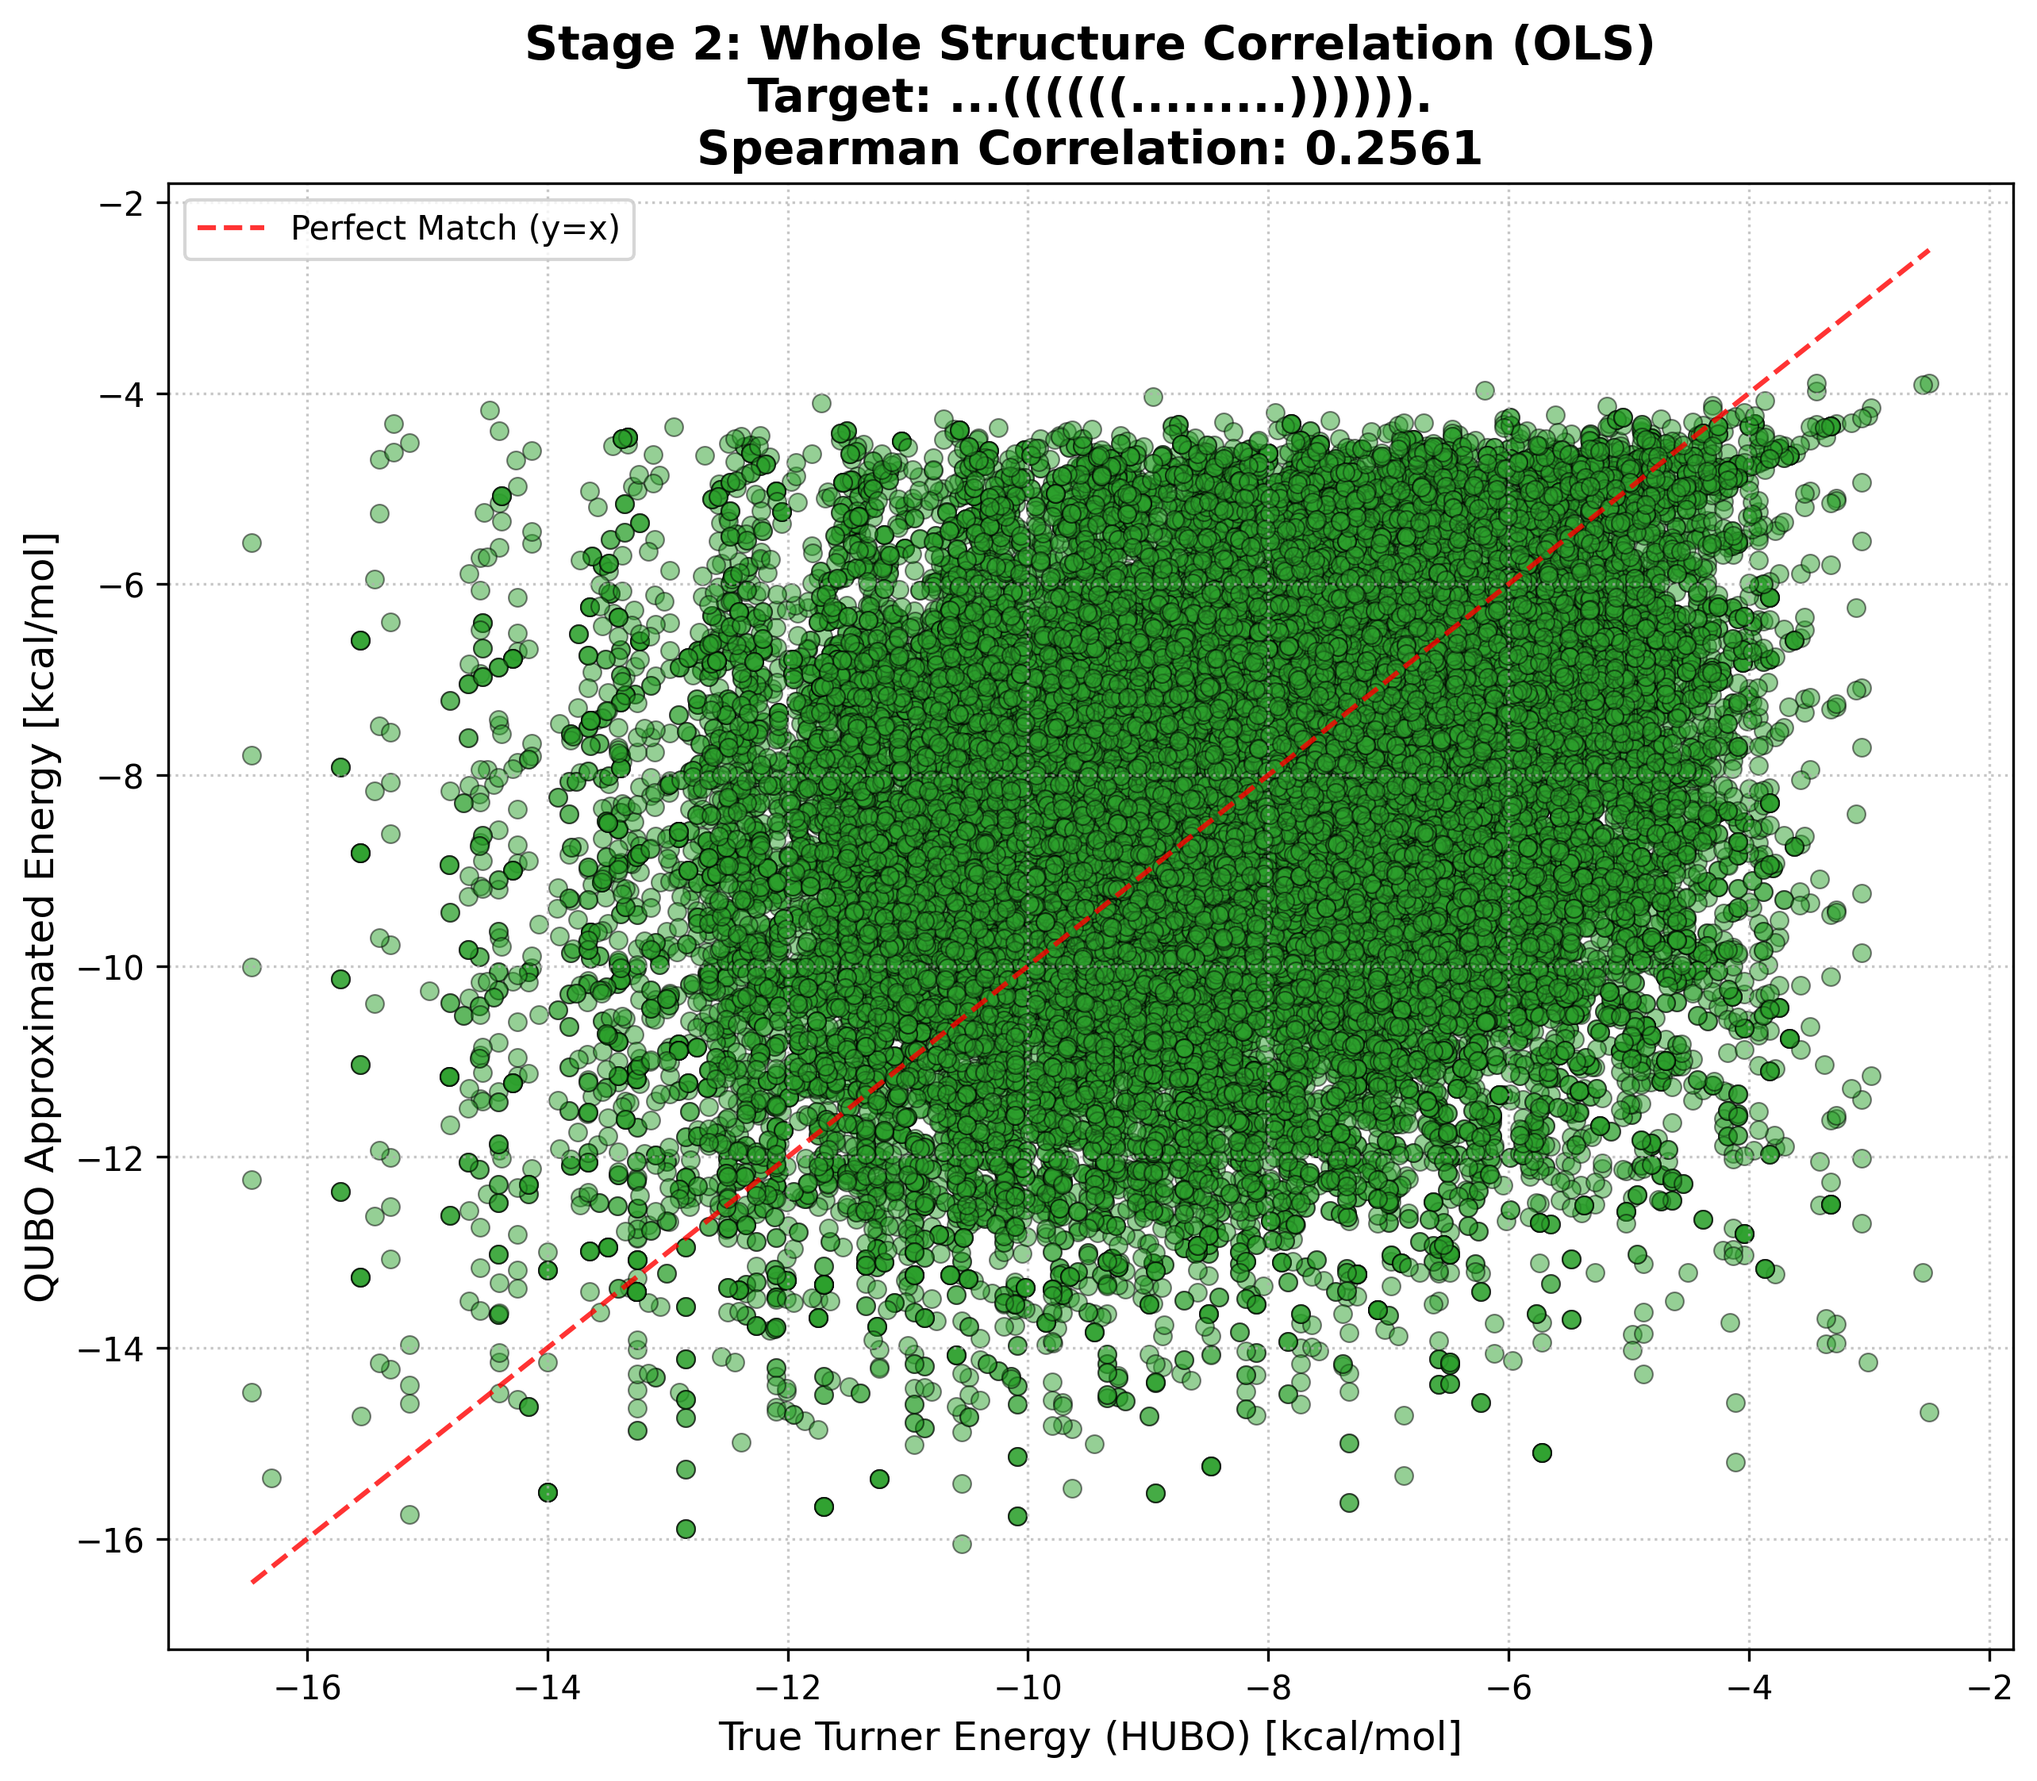
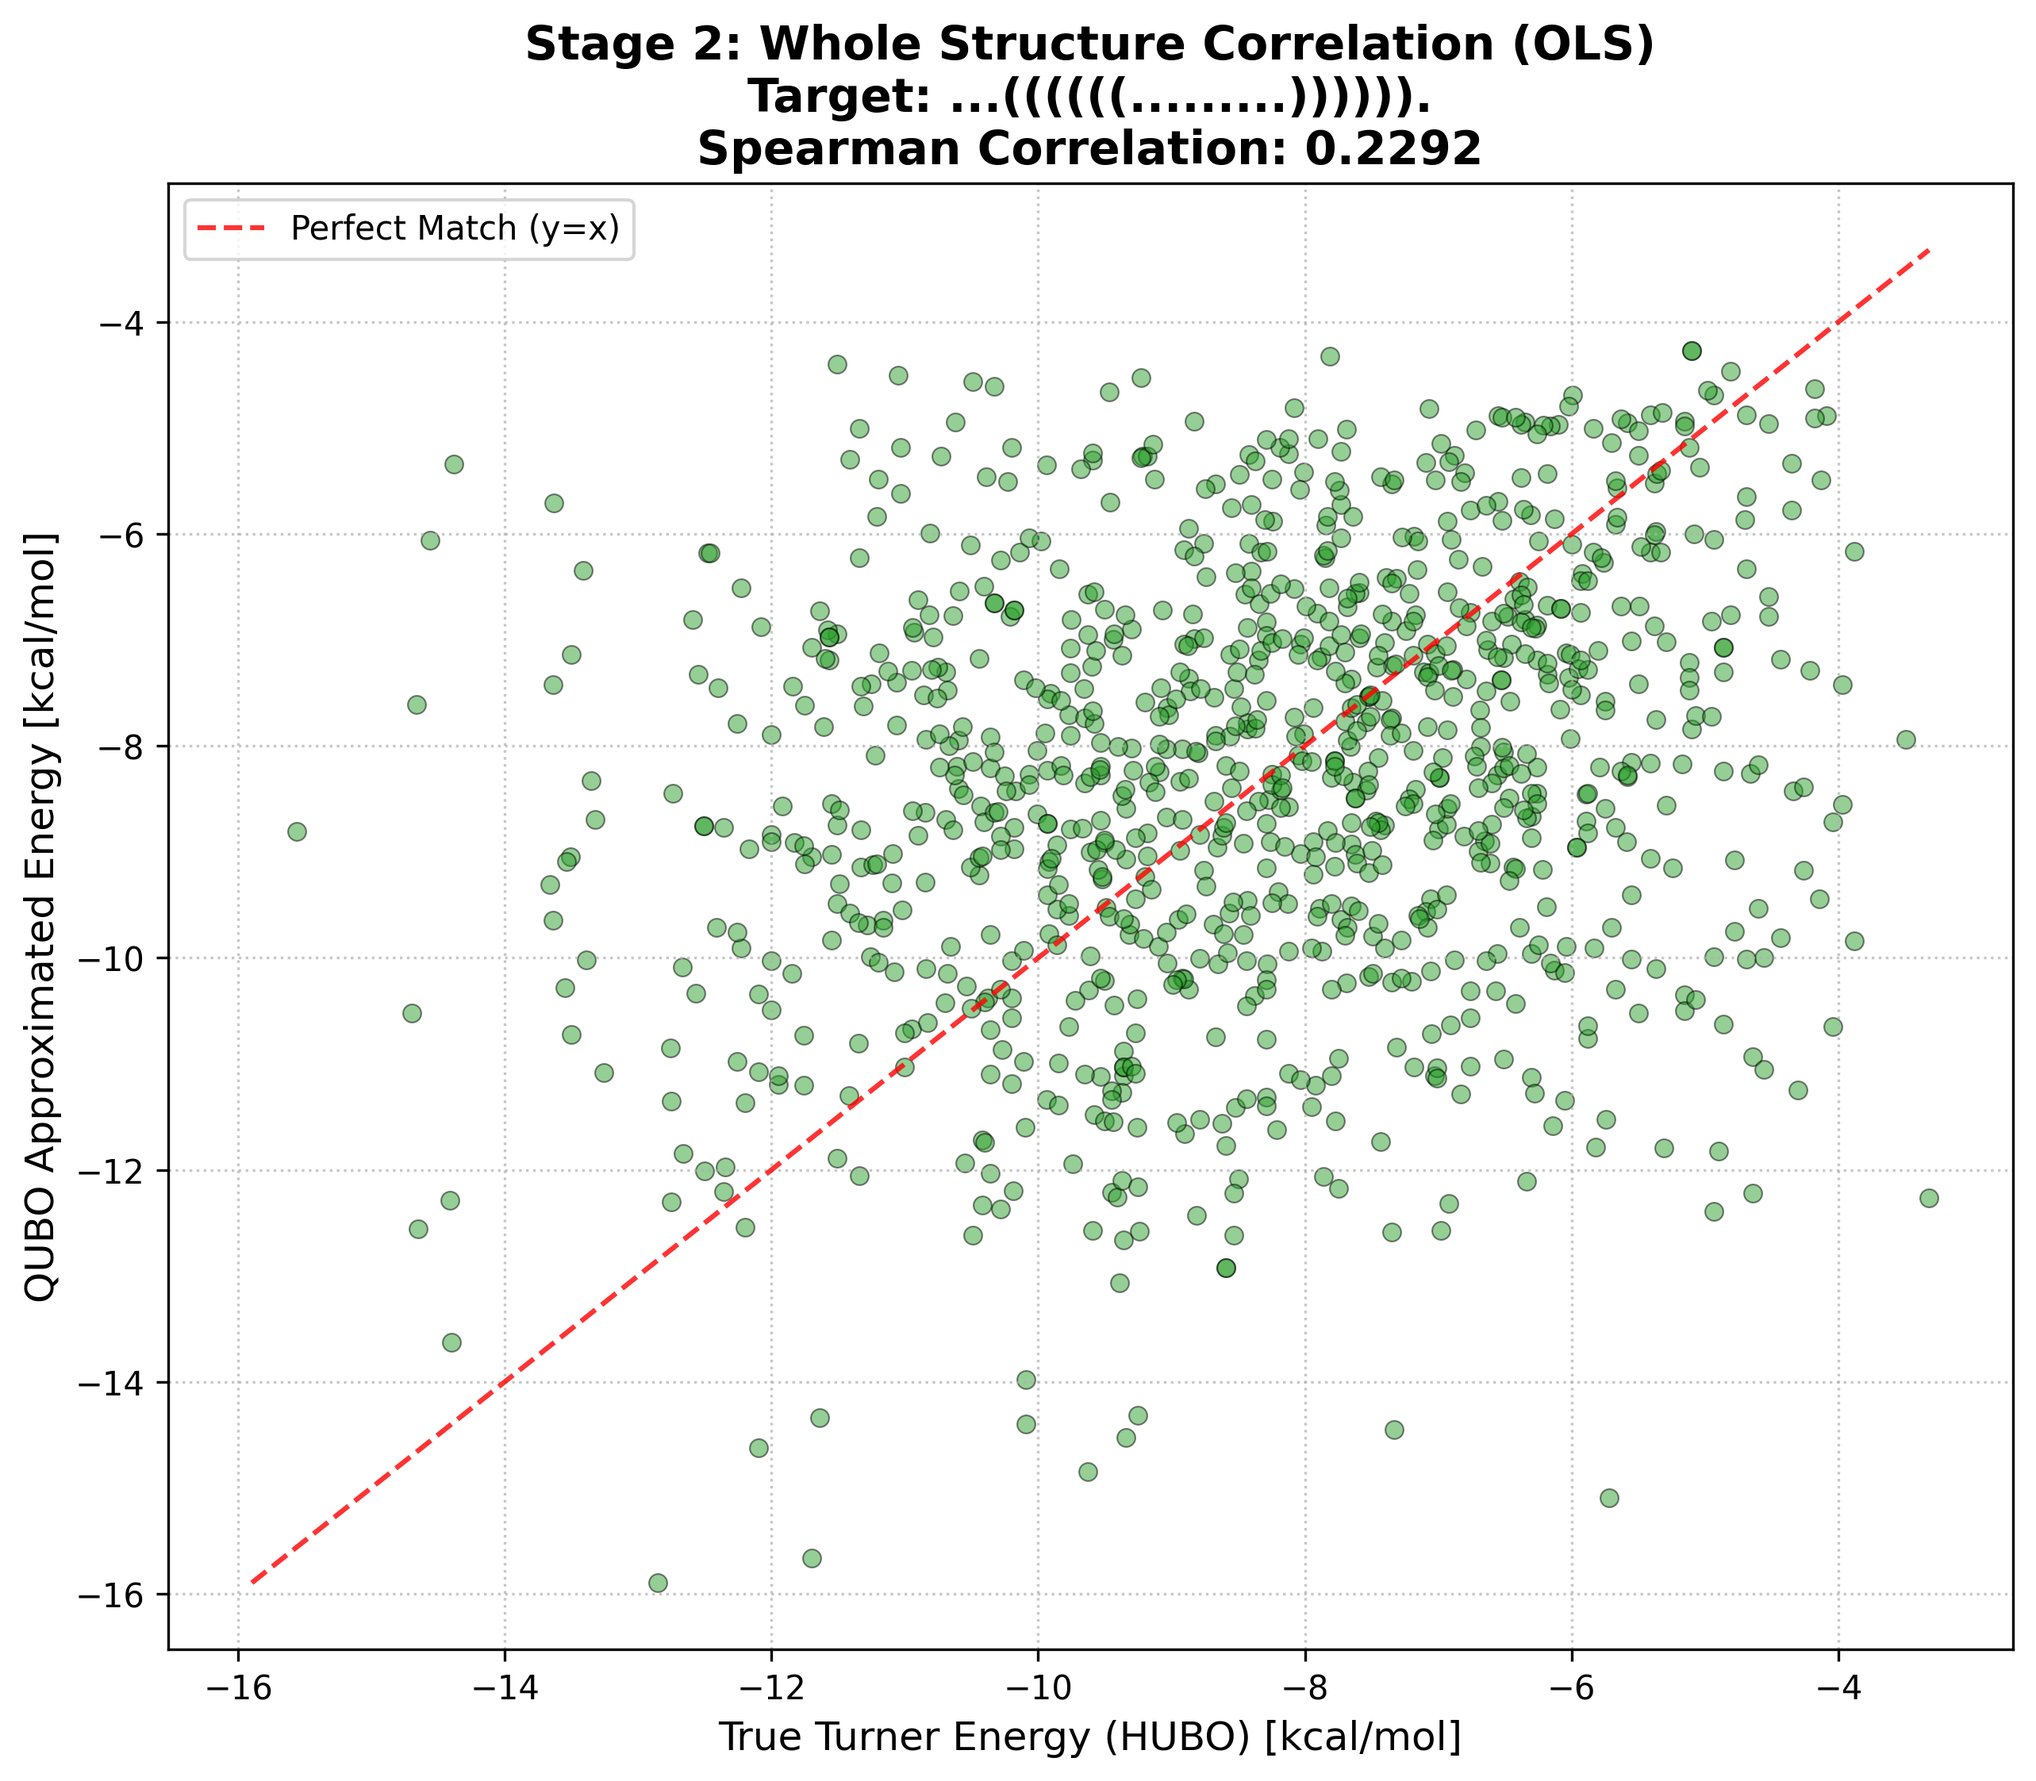
Checking the spearman correlation values for different objective function

diff --git a/phase3_coef_fitter.py b/phase3_coef_fitter.py
@@ -227,3 +227,197 @@ if __name__ == "__main__":
         
         # 2. Pass those weights into the diagnostic function to see the error margins and plot
         evaluate_qubo_fit(coefficients, method=method)
+
+
+# def calculate_qubo_coeffs(method="ols"):
+#     """
+#     Solves for the 22 QUBO coefficients using different objective functions.
+#     Available methods: 'ols', 'l1', 'minimax', 'rank', 'huber', 'wls', 'margin_rank'
+#     """
+#     num_samples = 36
+#     num_coeffs = 22
+
+#     Phi = np.zeros((num_samples,num_coeffs))
+#     E_true = np.zeros(num_samples)
+
+#     combinations = list(product(ALLOWED_PAIRS,ALLOWED_PAIRS))
+
+#     for row_i , (pair1,pair2) in enumerate(combinations):
+#         E_true[row_i] = get_turner_energy(pair1,pair2)
+#         q = build_qvector(pair1,pair2)
+
+#         col_i =0
+#         Phi[row_i,col_i] = 1 # c0 bias term always 1
+#         col_i +=1
+
+#         # c_a : linear terms
+#         for a in range(6):
+#             Phi[row_i,col_i] = q[a]
+#             col_i +=1
+        
+#         # c_ab : quadratic cross terms
+#         for a in range(6):
+#             for b in range(a+1,6):
+#                 Phi[row_i,col_i] = q[a] *q[b]
+#                 col_i +=1
+        
+#     # --- Solve Regression based on selected method ---
+#     if method == "ols":
+#         c_coeffs , _, _, _ = np.linalg.lstsq(Phi,E_true,rcond=None)
+            
+
+#     # ============================================================
+#     # NEW METHODS BELOW
+#     # ============================================================
+    
+#     elif method == "huber":
+#         # Huber Loss: Smooth blend of L1 (for outliers) and L2 (for small errors)
+#         def huber_loss(c):
+#             errors = np.dot(Phi, c) - E_true
+#             delta = 1.0 # Transition point between L2 and L1
+#             return np.sum(huber(delta, errors))
+        
+#         c0, _, _, _ = np.linalg.lstsq(Phi, E_true, rcond=None)
+#         res = minimize(huber_loss, c0, method='BFGS')
+#         c_coeffs = res.x
+
+#     elif method == "wls":
+#         # Weighted Least Squares: Focuses heavily on the most stable (lowest) energies
+#         # We use a Boltzmann-like distribution for weights
+#         shifted_energies = E_true - np.max(E_true) 
+#         weights = np.exp(-shifted_energies / 1.5) # The more negative, the heavier the weight
+        
+#         # Create a diagonal weight matrix
+#         W = np.diag(weights)
+        
+#         # Solve the weighted matrix math: (Phi^T * W * Phi)c = Phi^T * W * E_true
+#         c_coeffs = np.linalg.inv(Phi.T @ W @ Phi) @ Phi.T @ W @ E_true
+
+#     elif method == "margin_rank":
+#         # Smooth Margin Ranking Loss (Like a Support Vector Machine)
+#         def margin_loss(c):
+#             E_pred = np.dot(Phi, c)
+#             loss = 0
+#             for i in range(num_samples):
+#                 for j in range(i + 1, num_samples):
+#                     true_diff_sign = np.sign(E_true[i] - E_true[j])
+#                     pred_diff = E_pred[i] - E_pred[j]
+                    
+#                     # If true biology is 0 (equal), skip
+#                     if true_diff_sign == 0: continue
+                        
+#                     # Hinge Loss: Penalty if the predicted difference doesn't match the true sign with a safe margin
+#                     loss += np.maximum(0, -true_diff_sign * pred_diff + 0.1)
+                    
+#             return loss + 0.01 * np.sum(c**2) # Tiny L2 regularization
+            
+#         c0, _, _, _ = np.linalg.lstsq(Phi, E_true, rcond=None)
+#         res = minimize(margin_loss, c0, method='BFGS') # We can use the faster BFGS now!
+#         c_coeffs = res.x
+        
+#     elif method == "l1":
+#         def l1_loss(c):
+#             return np.sum(np.abs(np.dot(Phi, c) - E_true))
+#         c0, _, _, _ = np.linalg.lstsq(Phi, E_true, rcond=None)
+#         res = minimize(l1_loss, c0, method='BFGS')
+#         c_coeffs = res.x
+        
+#     elif method == "minimax":
+#         c_bounds = [(None, None)] * num_coeffs
+#         t_bound = [(0, None)]
+#         bounds = c_bounds + t_bound
+#         c_obj = np.zeros(num_coeffs + 1)
+#         c_obj[-1] = 1.0 
+        
+#         A_ub = np.vstack((
+#             np.hstack((Phi, -np.ones((num_samples, 1)))),
+#             np.hstack((-Phi, -np.ones((num_samples, 1))))
+#         ))
+#         b_ub = np.concatenate((E_true, -E_true))
+#         res = linprog(c_obj, A_ub=A_ub, b_ub=b_ub, bounds=bounds)
+#         c_coeffs = res.x[:-1]
+        
+#     elif method == "rank":
+#         def rank_loss(c):
+#             E_pred = np.dot(Phi, c)
+#             loss = 0
+#             for i in range(num_samples):
+#                 for j in range(i + 1, num_samples):
+#                     if (E_true[i] - E_true[j]) * (E_pred[i] - E_pred[j]) < 0:
+#                         loss += np.abs(E_pred[i] - E_pred[j])
+#             return loss + 0.01 * np.sum(c**2) 
+#         c0, _, _, _ = np.linalg.lstsq(Phi, E_true, rcond=None)
+#         res = minimize(rank_loss, c0, method='Nelder-Mead') 
+#         c_coeffs = res.x
+
+#     else:
+#         raise ValueError(f"Unknown method '{method}'")
+
+#     return c_coeffs
+
+# # coefficients = calculate_qubo_coeffs()
+
+# def evaluate_qubo_fit(c_coeffs):
+#     """
+#     Takes the calculated coefficients and compares the QUBO predicted
+#     energies against the true Turner 2004 dictionary energies.
+#     """
+#     num_samples = 36
+#     num_coeffs = 22
+
+#     # We quickly rebuild the matrices here to keep the functions perfectly decoupled
+#     Phi = np.zeros((num_samples,num_coeffs))
+#     E_true = np.zeros(num_samples)
+#     combinations = list(product(ALLOWED_PAIRS,ALLOWED_PAIRS))
+
+#     for row_i , (pair1,pair2) in enumerate(combinations):
+#         E_true[row_i] = get_turner_energy(pair1,pair2)
+#         q = build_qvector(pair1,pair2)
+
+#         col_i = 0
+#         Phi[row_i,col_i] = 1 
+#         col_i += 1
+#         for a in range(6):
+#             Phi[row_i,col_i] = q[a]
+#             col_i += 1
+#         for a in range(6):
+#             for b in range(a+1,6):
+#                 Phi[row_i,col_i] = q[a] * q[b]
+#                 col_i += 1
+
+#     print("="*60)
+#     print("QUBO APPROXIMATION")
+#     print("="*60)
+
+#     # Calculate predicted energies using the passed coefficients
+#     E_pred = np.dot(Phi, c_coeffs)
+#     errors = E_pred - E_true
+
+#     # Print the detailed comparison table
+#     print(f"{'Stack':<10} | {'Turner (True)':<15} | {'QUBO (Predicted)':<18} | {'Error'}")
+#     print("-" * 60)
+    
+#     for i, (pair1, pair2) in enumerate(combinations):
+#         stack_name = f"{pair1}/{pair2}"
+#         print(f"{stack_name:<10} | {E_true[i]:>13.3f}   | {E_pred[i]:>16.3f}   | {errors[i]:>6.3f}")
+        
+#     print("-" * 60)
+    
+#     # Calculate and print overall metrics
+#     rmse = np.sqrt(np.mean(errors**2))
+#     max_err = np.max(np.abs(errors))
+    
+#     print(f"\nOverall RMSE      : {rmse:.4f} kcal/mol")
+#     print(f"Max Absolute Error: {max_err:.4f} kcal/mol")
+#     print("="*60)
+
+
+# if __name__ == "__main__":
+#     # 1. calculate the weights
+#     coefficients = calculate_qubo_coeffs()
+    
+#     print("Regression Complete.")
+#     print(f"Calculated 22 coefficients: {np.round(coefficients, 3)}\n")
+    
+#     # 2. Pass those weights into the diagnostic function to see the error margins
+#     evaluate_qubo_fit(coefficients)

diff --git a/phase6_correlation_sampling.py b/phase6_correlation_sampling.py
@@ -3,13 +3,22 @@ import random
 import numpy as np
 import matplotlib.pyplot as plt  
 from scipy.stats import spearmanr
+import RNA
 
 from phase1_rules import extract_stems, PAIR_ENCODING,ALLOWED_PAIRS
 from phase2_turner_energy import calculate_true_turner_energy
 from phase3_coef_fitter import calculate_qubo_coeffs
 from phase4_qubo_builder import build_approx_qubo
 
-def generate_random_sequences(target_structure , num_samples =1000):
+# def get_vienna_energy(sequence, structure):
+#     """
+#     Calculates the exact free energy of a sequence folded into a specific
+#     structure using the official vienna packge
+#     """
+#     fc = RNA.fold_compound(sequence)
+#     return fc.eval_structure(structure)
+
+def generate_random_sequences(target_structure , num_samples):
     """
     Generate N random RNA sequences that physcally fir into the target structure 
     fill loops with dummy As
@@ -65,7 +74,7 @@ def evaluate_sequence_in_qubo(sequence , stems,Q_dict , offset):
 
     return qubo_energy
 
-def run_statistical_sampling(target_structure, num_samples = 1000,math_method="ols"):
+def run_statistical_sampling(target_structure, num_samples,math_method="ols"):
     """
     Pipeline 
     Generate sequences , scores them both ways (HUBO , QUBO) and
@@ -92,7 +101,9 @@ def run_statistical_sampling(target_structure, num_samples = 1000,math_method="o
     for seq in sequences:
         # score HUBO
         t_energy = calculate_true_turner_energy(stems,seq)
+        # t_energy = get_vienna_energy(seq, target_structure)
         true_energies.append(t_energy)
+
 
         # Score QUBO
         q_energy = evaluate_sequence_in_qubo(seq, stems, Q_dict,offset)
@@ -119,8 +130,6 @@ def run_statistical_sampling(target_structure, num_samples = 1000,math_method="o
     print("="*60 + "\n")
     # ---------------------------------------------------------
 
-
-
     # 5. Plotting
     save_dir = "correlation_plots"
     if not os.path.exists(save_dir):
@@ -136,12 +145,12 @@ def run_statistical_sampling(target_structure, num_samples = 1000,math_method="o
     plt.plot([min_val, max_val], [min_val, max_val], 'r--', alpha=0.8, label="Perfect Match (y=x)")
     
     plt.title(f"Stage 2: Whole Structure Correlation ({math_method.upper()})\nTarget: {target_structure}\nSpearman Correlation: {correlation:.4f}", fontsize=14, fontweight='bold')
-    plt.xlabel("True Turner Energy (HUBO) [kcal/mol]", fontsize=12)
+    plt.xlabel("ViennaRNA Energy [kcal/mol]", fontsize=12)
     plt.ylabel("QUBO Approximated Energy [kcal/mol]", fontsize=12)
     plt.grid(True, linestyle=':', alpha=0.7)
     plt.legend()
 
-    filename = f"Correlation_{target_structure}_{math_method}.png"
+    filename = f"Correlation_{target_structure}_{math_method}_{num_samples}.png"
     filepath = os.path.join(save_dir, filename)
     plt.savefig(filepath, dpi=300, bbox_inches='tight')
     plt.close()
@@ -150,5 +159,9 @@ def run_statistical_sampling(target_structure, num_samples = 1000,math_method="o
 
 
 if __name__ == "__main__":
-    target_1 = "...((((((.........))))))."
-    run_statistical_sampling(target_1,num_samples=100000,math_method="ols")
+    target_1 = "(((...)))" # true structure :GCCGUCGGC
+    # target_1 = "...(((...)))" # true structure :GCCGUCGGC
+    # target_1 = "...(((...)))" # true structure :GCCGUCGGC
+    # methods : ols , l1 , minimax , rank
+    # new methods : huber, wls,margin_rank
+    run_statistical_sampling(target_1,num_samples=100,math_method="margin_rank")
